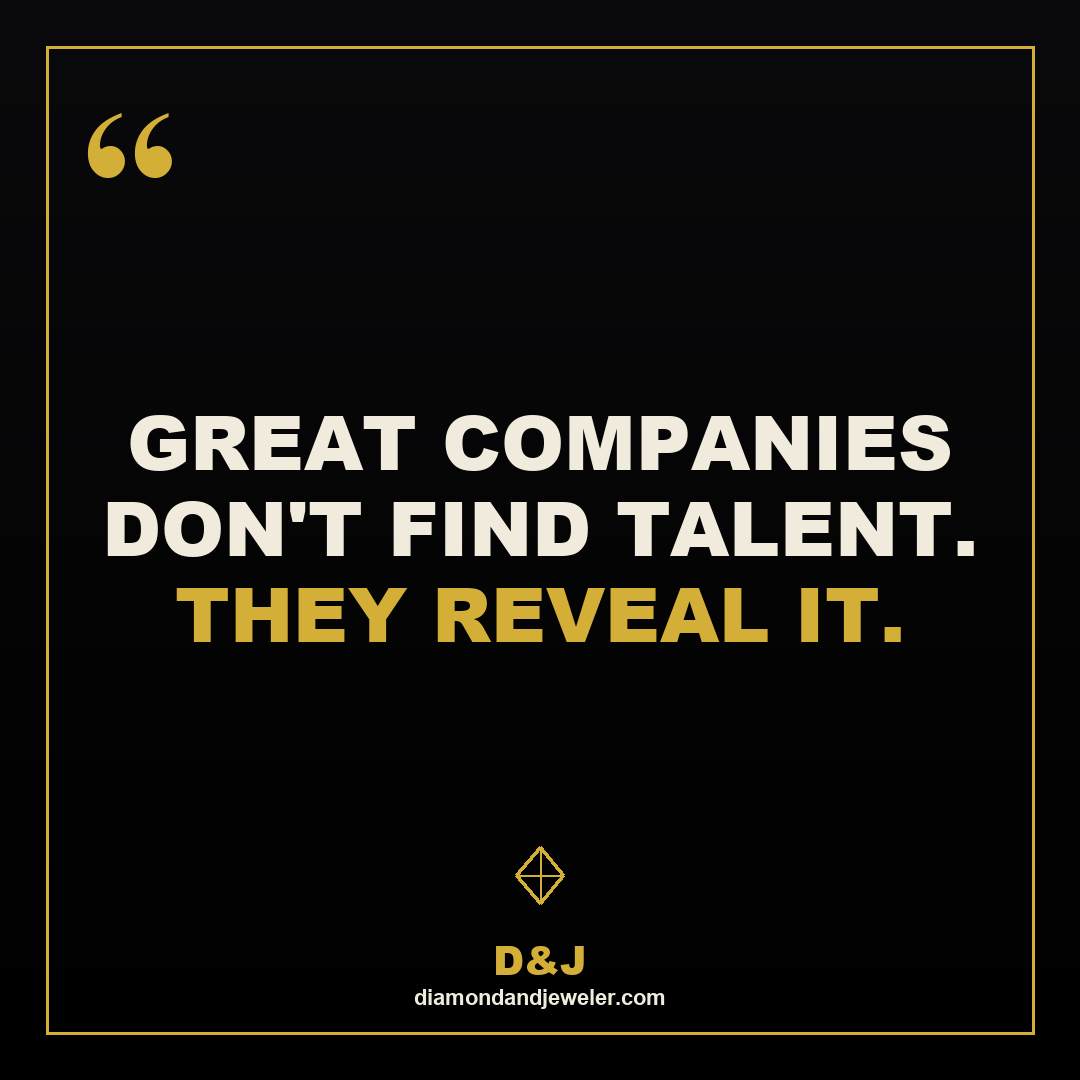
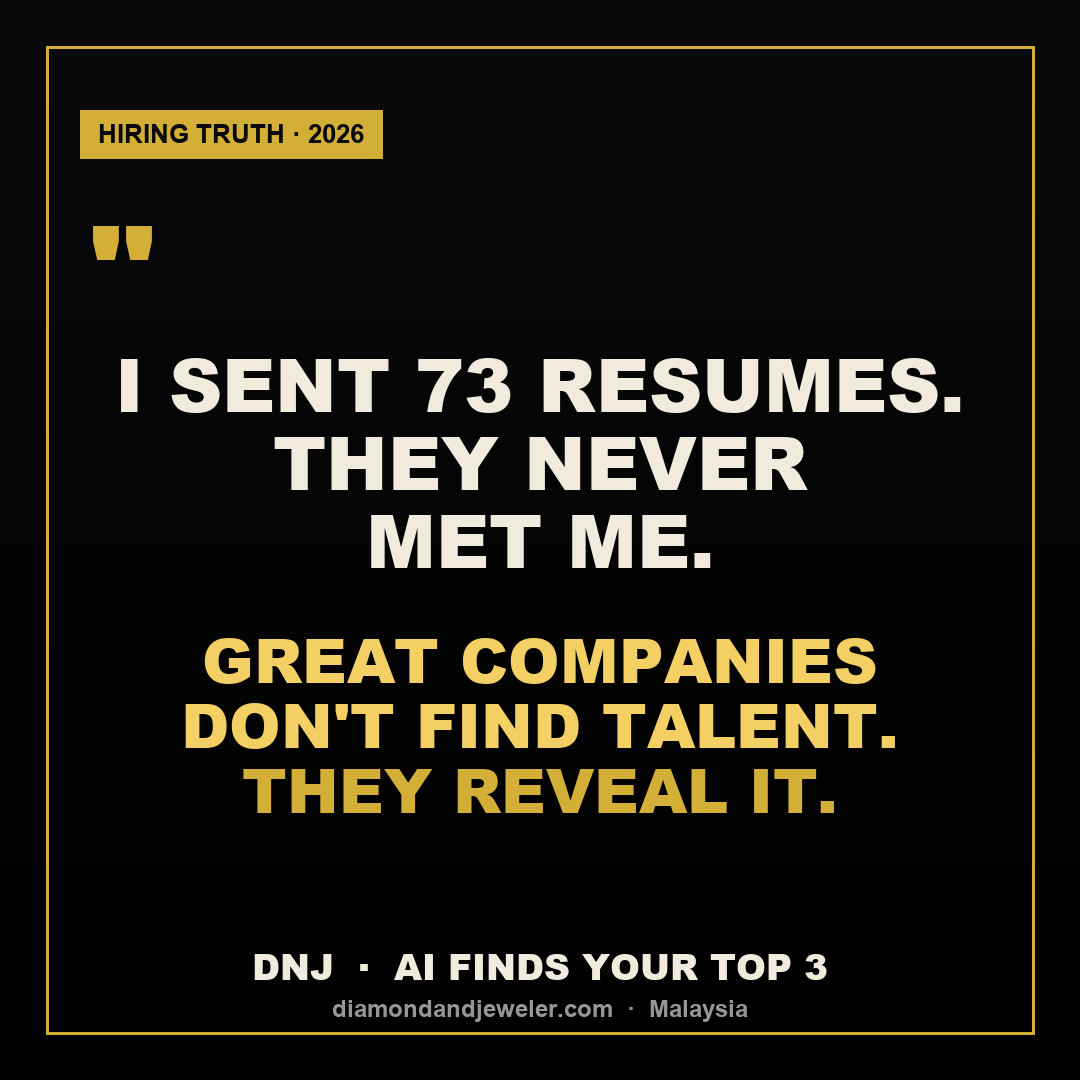
redesign Day 34 + Day 39 covers per viral-framework-2026
Day 34 carousel slide 1:
- Red high-contrast accent banner: +RM800/MO · MALAYSIA · 2026
- Headline now leads with outcome+number: "NEGOTIATE +RM800/MO IN 5 MOVES"
- Search-keyword subline: salary tips · fresh grad · Malaysia

Day 39 quote (resonance pattern):
- Yellow tag accent: HIRING TRUTH · 2026
- Resonance line first: "I SENT 73 RESUMES. THEY NEVER MET ME."
- Reframe in gold: "GREAT COMPANIES DON'T FIND TALENT. THEY REVEAL IT."
- Brand outcome strip: DNJ · AI FINDS YOUR TOP 3 · Malaysia

New script: make_framework_covers.py (single-purpose framework regen)

Changed region(s): [[0.0917, 0.3056, 0.9167, 0.9472], [0.0611, 0.0917, 0.3667, 0.2444], [0.2139, 0.8861, 0.3056, 0.9167]]

diff --git a/marketing/instagram/content/make_framework_covers.py b/marketing/instagram/content/make_framework_covers.py
@@ -1,0 +1,155 @@
+"""Framework-aligned cover regen for Day 34 carousel slide 1 + Day 39 quote.
+
+Implements the Chalette/viral-framework-2026.md rules for VIRTUAL SERVICE covers:
+  - Big text + at least one NUMBER in headline
+  - Malaysia / 🇲🇾 keyword on cover
+  - High-contrast accent block (red banner OR yellow strip OR white card) to break
+    the dim black-gold mood
+  - Resonance line on quotes (audience-said-yes line), then reframe in gold
+
+Only overwrites:
+  - carousels/day34-salary-negotiation-1.png (square 1080, matches slides 2-7)
+  - quotes/q-day39-reveal.png (square 1080)
+"""
+import os
+from PIL import Image, ImageDraw, ImageFont
+
+ROOT = r"C:\Users\DC\Desktop\DestinOraclesSolution CRM\marketing\instagram\content"
+OUT_CAR = os.path.join(ROOT, "carousels")
+OUT_Q = os.path.join(ROOT, "quotes")
+
+S = 1080
+BLACK = (10, 10, 12); DEEP = (0, 0, 0)
+GOLD = (212, 175, 55); GOLD_L = (244, 208, 100)
+OFFWHITE = (240, 235, 220); GREY = (150, 150, 150)
+RED = (210, 50, 60)           # high-contrast accent block
+
+FONT_HEAD = r"C:\Windows\Fonts\ariblk.ttf"
+FONT_BODY = r"C:\Windows\Fonts\arialbd.ttf"
+FONT_REG = r"C:\Windows\Fonts\arial.ttf"
+
+
+def bg():
+    img = Image.new("RGB", (S, S), BLACK); d = ImageDraw.Draw(img)
+    for i in range(S):
+        t = i/(S-1)
+        d.line([(0, i), (S, i)], fill=(int(BLACK[0]*(1-t)+DEEP[0]*t),
+                                       int(BLACK[1]*(1-t)+DEEP[1]*t),
+                                       int(BLACK[2]*(1-t)+DEEP[2]*t)))
+    return img
+
+
+def border(d):
+    d.rectangle([46, 46, S-46, S-46], outline=GOLD, width=3)
+
+
+def diamond(d, cx, cy, sz, col, w=3):
+    p = [(cx, cy-sz), (cx+sz*0.85, cy), (cx, cy+sz), (cx-sz*0.85, cy)]
+    for i in range(4):
+        d.line([p[i], p[(i+1) % 4]], fill=col, width=w)
+    d.line([(cx-sz*0.85, cy), (cx+sz*0.85, cy)], fill=col, width=2)
+    d.line([(cx, cy-sz), (cx, cy+sz)], fill=col, width=2)
+
+
+def fit(lines, maxf, maxw, fp=FONT_HEAD, minf=22):
+    s = maxf
+    im = Image.new("RGB", (10, 10)); d = ImageDraw.Draw(im)
+    while s > minf:
+        f = ImageFont.truetype(fp, s)
+        if max(d.textbbox((0, 0), ln, font=f)[2] for ln in lines) <= maxw:
+            return s
+        s -= 3
+    return s
+
+
+def text_center(d, y, text, font, fill):
+    bb = d.textbbox((0, 0), text, font=font)
+    d.text(((S-(bb[2]-bb[0]))/2-bb[0], y), text, fill=fill, font=font)
+
+
+# ---------- Day 34 slide 1 — method pattern ----------
+def render_day34_slide1(path):
+    img = bg(); d = ImageDraw.Draw(img); border(d)
+
+    # ACCENT — red banner top-left strip with the BIG NUMBER + Malaysia keyword
+    banner_h = 110
+    d.rectangle([46, 100, S-46, 100+banner_h], fill=RED)
+    bf = ImageFont.truetype(FONT_HEAD, 56)
+    banner_text = "+RM800/MO  ·  MALAYSIA  ·  2026"
+    text_center(d, 100 + (banner_h-56)//2 - 6, banner_text, bf, OFFWHITE)
+
+    # MAIN HEADLINE — large, numbered, search-optimized
+    head = ["HOW TO", "NEGOTIATE", "+RM800/MO", "IN 5 MOVES"]
+    sz = fit(head, 130, S-150, minf=70)
+    f = ImageFont.truetype(FONT_HEAD, sz)
+    step = int(sz*1.05)
+    total = step*(len(head)-1)+sz
+    sy = 320
+    for i, ln in enumerate(head):
+        col = GOLD if "RM800" in ln else OFFWHITE
+        text_center(d, sy+i*step, ln, f, col)
+
+    # SUBLINE — niche search keyword
+    sub = "salary tips · fresh grad · Malaysia"
+    sf = ImageFont.truetype(FONT_BODY, 38)
+    text_center(d, sy+total+30, sub, sf, GREY)
+
+    # CTA strip — save before next offer
+    diamond(d, S//2, S-180, 30, GOLD, 3)
+    sw_f = ImageFont.truetype(FONT_BODY, 30)
+    text_center(d, S-120, "SAVE  ·  SWIPE  ->", sw_f, GOLD_L)
+
+    img.save(path, "PNG", optimize=True)
+    print(f"OK -> {path}")
+
+
+# ---------- Day 39 quote — resonance pattern ----------
+def render_day39_quote(path):
+    img = bg(); d = ImageDraw.Draw(img); border(d)
+
+    # ACCENT — small yellow tag (top-left) labeling the post
+    tag_text = "HIRING TRUTH · 2026"
+    tagf = ImageFont.truetype(FONT_BODY, 26)
+    bb = d.textbbox((0, 0), tag_text, font=tagf)
+    tag_w = bb[2]-bb[0] + 36
+    tag_h = 48
+    d.rectangle([80, 110, 80+tag_w, 110+tag_h], fill=GOLD)
+    d.text((98, 110+(tag_h-26)//2 - 2), tag_text, fill=BLACK, font=tagf)
+
+    # OPENING quote mark (gold, big serif)
+    qf = ImageFont.truetype(FONT_HEAD, 130)
+    d.text((90, 175), '"', fill=GOLD, font=qf)
+
+    # RESONANCE LINE (offwhite, mid) — compact 3 lines
+    res = ["I SENT 73 RESUMES.", "THEY NEVER", "MET ME."]
+    rsz = fit(res, 80, S-200, minf=50)
+    rf = ImageFont.truetype(FONT_HEAD, rsz)
+    rstep = int(rsz*1.06)
+    ry = 330
+    for i, ln in enumerate(res):
+        text_center(d, ry+i*rstep, ln, rf, OFFWHITE)
+
+    # REFRAME LINE (gold, the punch) — compact 3 lines
+    re_lines = ["GREAT COMPANIES", "DON'T FIND TALENT.", "THEY REVEAL IT."]
+    rfsz = fit(re_lines, 62, S-200, minf=40)
+    rff = ImageFont.truetype(FONT_HEAD, rfsz)
+    rfstep = int(rfsz*1.06)
+    rfy = ry + rstep*len(res) + 50
+    for i, ln in enumerate(re_lines):
+        col = GOLD if i == 2 else GOLD_L
+        text_center(d, rfy+i*rfstep, ln, rff, col)
+
+    # OUTCOME / brand strip — NO diamond (it overlapped text), text-only
+    of = ImageFont.truetype(FONT_HEAD, 36)
+    text_center(d, S-140, "DNJ  ·  AI FINDS YOUR TOP 3", of, OFFWHITE)
+    uf = ImageFont.truetype(FONT_BODY, 24)
+    text_center(d, S-85, "diamondandjeweler.com  ·  Malaysia", uf, GREY)
+
+    img.save(path, "PNG", optimize=True)
+    print(f"OK -> {path}")
+
+
+if __name__ == "__main__":
+    render_day34_slide1(os.path.join(OUT_CAR, "day34-salary-negotiation-1.png"))
+    render_day39_quote(os.path.join(OUT_Q, "q-day39-reveal.png"))
+    print("\nFramework-aligned covers regenerated.")